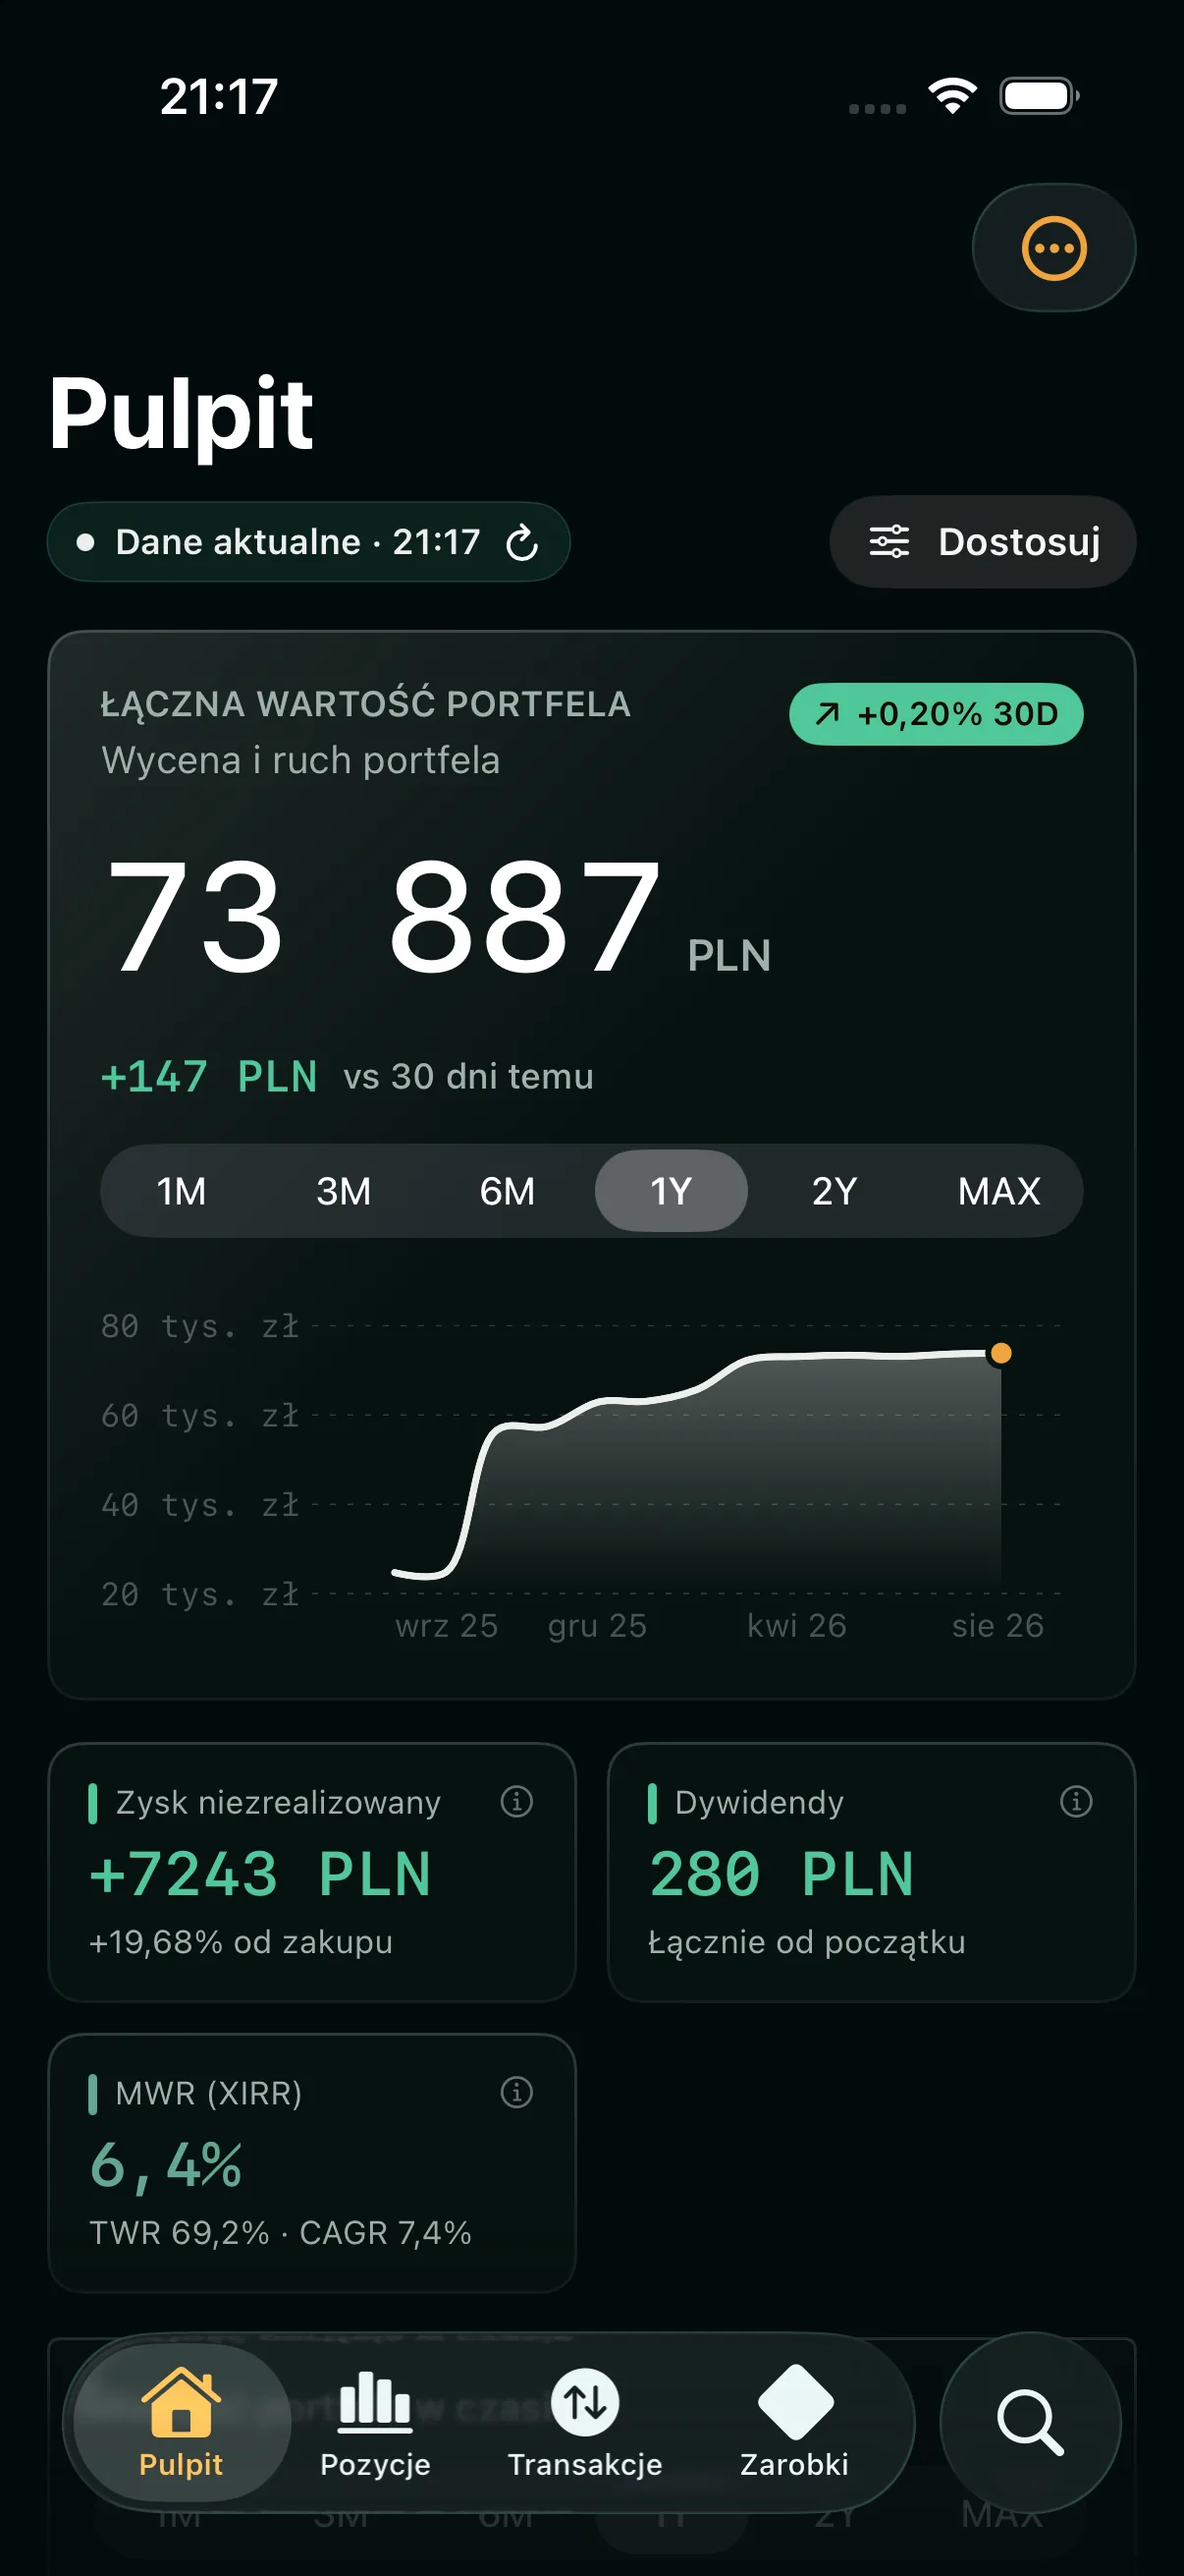
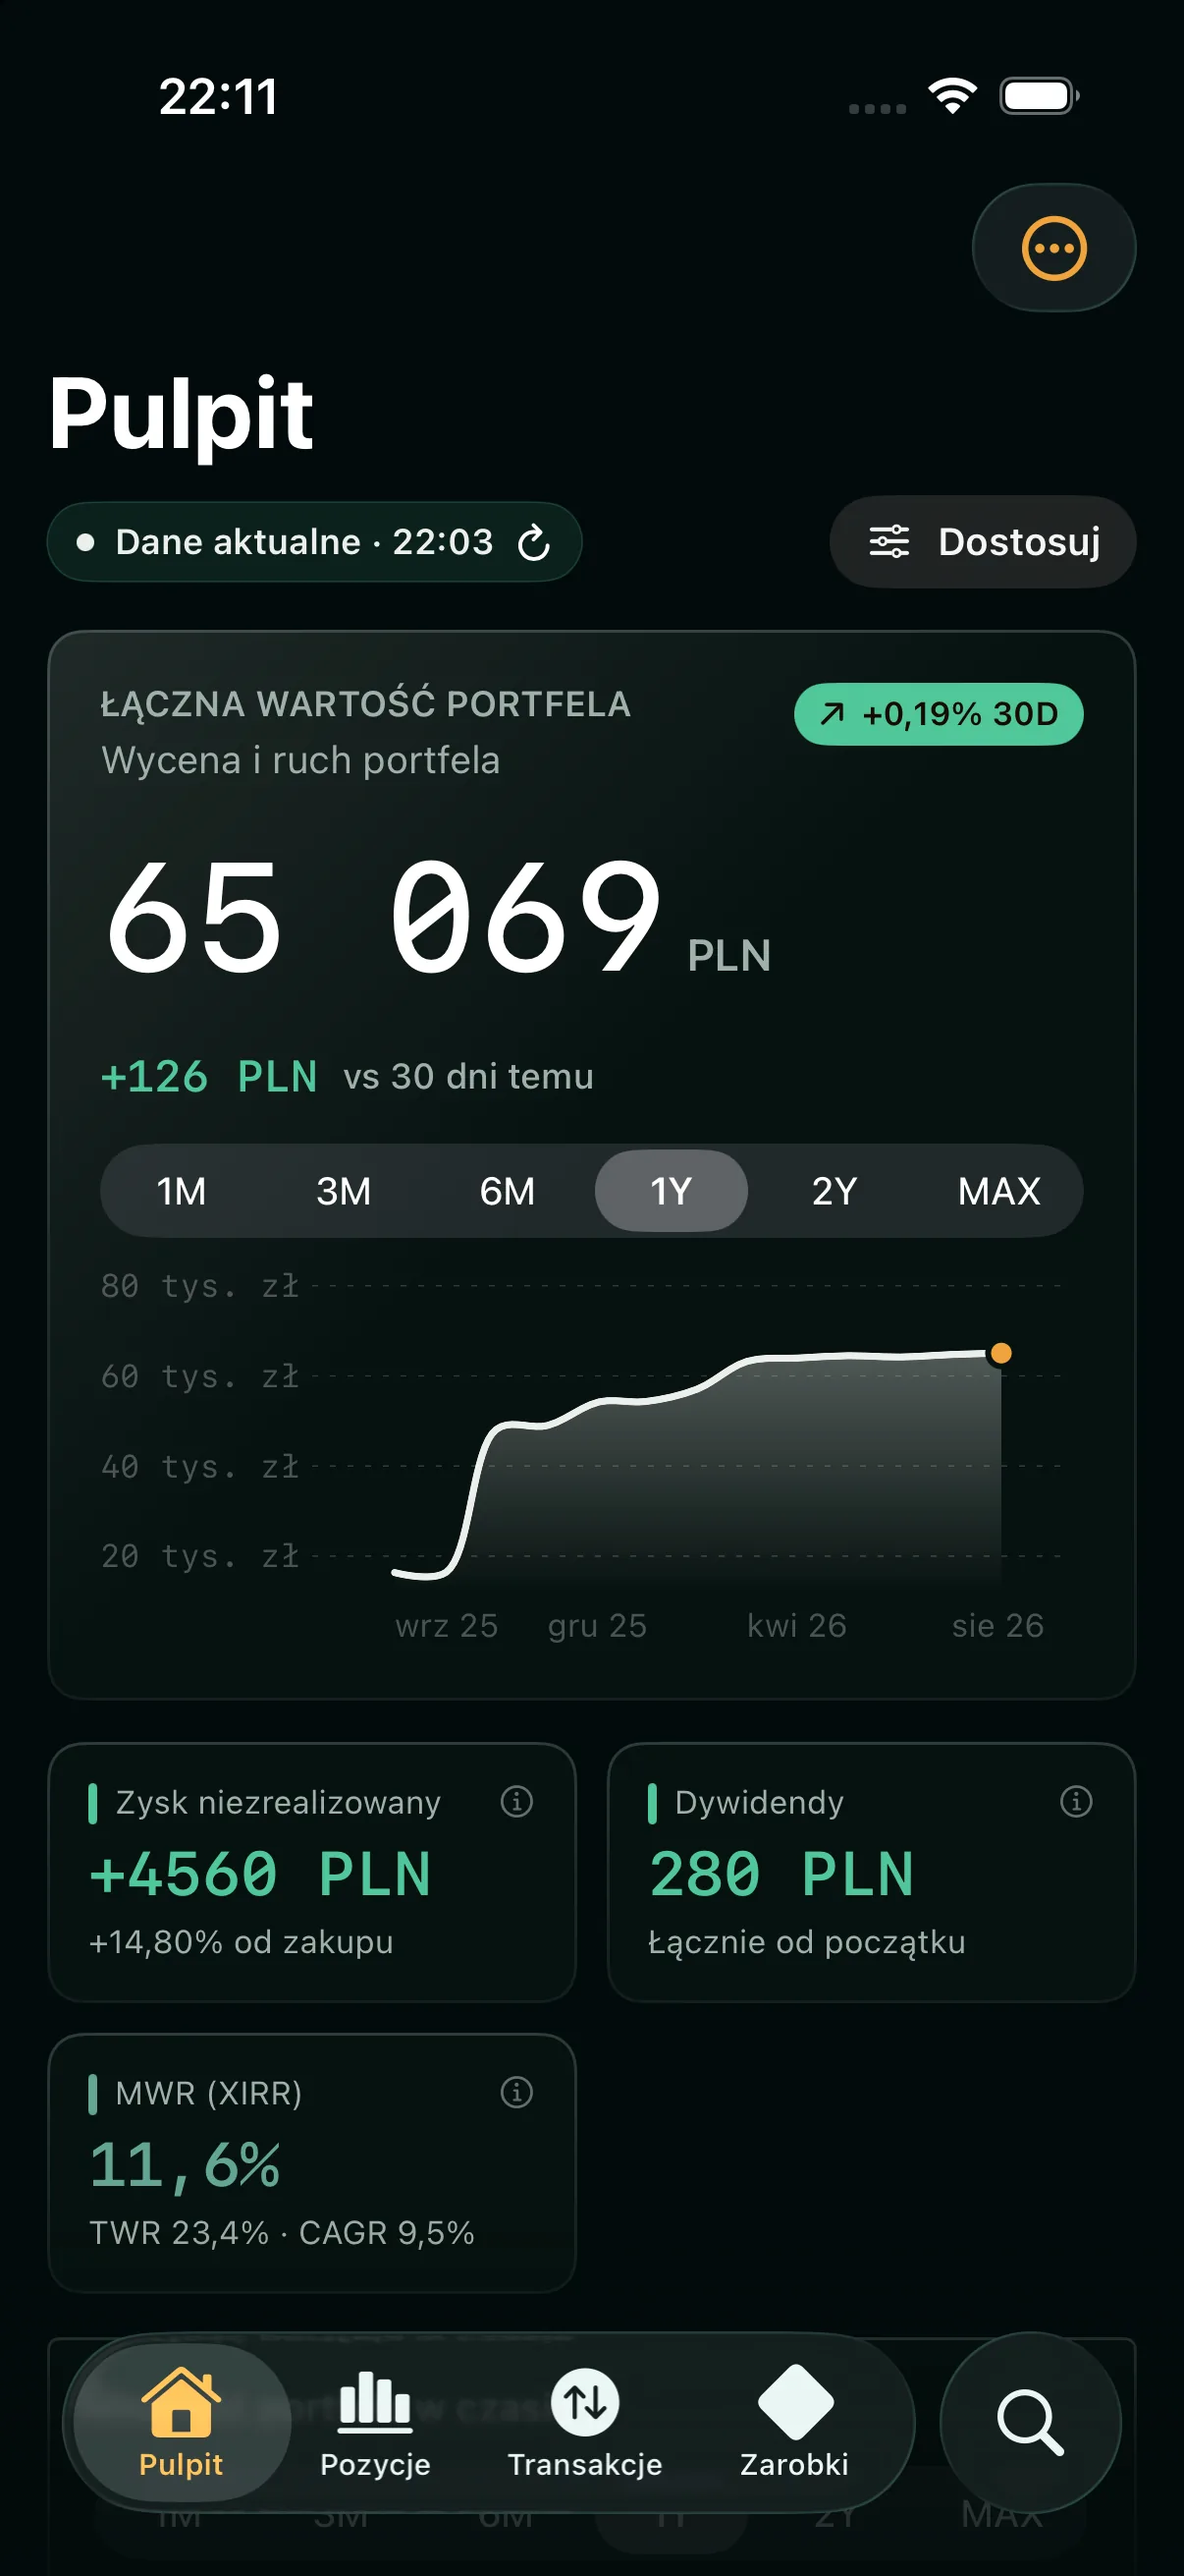
Landing: usuń cienie z rozmyciem, zrzuty iOS na poprawionych danych, test pilnuje CSS
- landing.css: bez cieni pod ramkami aplikacji i wewnętrznego cienia pól
  (zostają włosowe krawędzie inset, pierścień fokusu); text-shadow na
  karcie inwestora zostaje jako pomoc w czytelności nad obrazem
- no-component-shadows: skanuje też CSS, w tym deklaracje wielolinijkowe
- zrzuty iOS (5) i ios.webp z JSON-LD: nowe dane przykładowe aplikacji

diff --git a/app/_landing/landing.css b/app/_landing/landing.css
@@ -156,9 +156,7 @@
   border: 1px solid var(--hair);
   box-shadow:
     inset 0 1px 0 rgba(255, 255, 255, 0.15),
-    inset 0 -1px 0 rgba(0, 0, 0, 0.34),
-    0 22px 54px rgba(0, 0, 0, 0.5),
-    0 2px 8px rgba(0, 0, 0, 0.34);
+    inset 0 -1px 0 rgba(0, 0, 0, 0.34);
 }
 
 /* ── Przyciski — bursztyn zatopiony w szkle, świeci od spodu ─────────────── */
@@ -615,7 +613,7 @@
   backdrop-filter: blur(26px) saturate(126%);
   -webkit-backdrop-filter: blur(26px) saturate(126%);
   border: 1px solid var(--hair);
-  box-shadow: inset 0 1px 0 rgba(255, 255, 255, 0.15), 0 22px 54px rgba(0, 0, 0, 0.5);
+  box-shadow: inset 0 1px 0 rgba(255, 255, 255, 0.15);
 }
 .zlanding .product-kicker { font-family: var(--text); font-weight: 500; font-size: 12px; letter-spacing: 0.1em; text-transform: uppercase; color: var(--ink-3); }
 .zlanding .static-allocation { display: flex; align-items: center; gap: 20px; margin-top: 14px; flex-wrap: wrap; }
@@ -668,7 +666,7 @@
   backdrop-filter: blur(26px) saturate(126%);
   -webkit-backdrop-filter: blur(26px) saturate(126%);
   border: 1px solid var(--hair);
-  box-shadow: inset 0 1px 0 rgba(255, 255, 255, 0.15), 0 22px 54px rgba(0, 0, 0, 0.5);
+  box-shadow: inset 0 1px 0 rgba(255, 255, 255, 0.15);
 }
 .zlanding .field label { display: block; font-family: var(--text); font-weight: 500; font-size: 12px; letter-spacing: 0.1em; text-transform: uppercase; color: var(--ink-3); }
 .zlanding .field input {
@@ -680,13 +678,13 @@
   border-radius: 3px;
   background: rgba(2, 10, 11, 0.5);
   border: 1px solid var(--hair);
-  box-shadow: inset 0 1px 3px rgba(0, 0, 0, 0.5);
+  box-shadow: inset 0 1px 0 rgba(0, 0, 0, 0.5);
   color: var(--ink);
   font-family: var(--text);
   font-size: 14px;
 }
 .zlanding .field input::placeholder { color: var(--ink-3); }
-.zlanding .field input:focus-visible { border-color: rgba(240, 164, 60, 0.5); box-shadow: inset 0 1px 3px rgba(0, 0, 0, 0.5), 0 0 0 3px rgba(240, 164, 60, 0.12); outline: none; }
+.zlanding .field input:focus-visible { border-color: rgba(240, 164, 60, 0.5); box-shadow: inset 0 1px 0 rgba(0, 0, 0, 0.5), 0 0 0 3px rgba(240, 164, 60, 0.12); outline: none; }
 .zlanding .hp-field { position: absolute; left: -9999px; width: 1px; height: 1px; overflow: hidden; }
 .zlanding .beta-consent { display: flex; align-items: center; gap: 11px; margin-top: 16px; font-size: 14px; color: var(--ink-2); cursor: pointer; }
 .zlanding .beta-waitlist-form .btn { width: 100%; margin-top: 20px; }
@@ -793,7 +791,7 @@
   border-radius: 4px;
   background: linear-gradient(158deg, rgba(196, 232, 222, 0.075), rgba(196, 232, 222, 0.028));
   border: 1px solid var(--hair);
-  box-shadow: inset 0 1px 0 rgba(255, 255, 255, 0.15), 0 22px 54px rgba(0, 0, 0, 0.55);
+  box-shadow: inset 0 1px 0 rgba(255, 255, 255, 0.15);
 }
 .zlanding .platform-stage-main figure[hidden] { display: none; }
 .zlanding .platform-stage-main figure img { display: block; width: 100%; height: auto; border-radius: 2px; }
@@ -1107,7 +1105,6 @@
   border-radius: 6px;
   border: 1px solid var(--hair);
   background: var(--vault-3);
-  box-shadow: 0 24px 48px rgba(0, 0, 0, 0.35);
   overflow: hidden;
 }
 .zlanding .steps-shot-bar {
@@ -1356,7 +1353,6 @@
     gap: 0;
     padding: 8px 28px 20px;
     background: #020A0B;
-    box-shadow: 0 24px 48px rgba(0, 0, 0, 0.6);
     border-bottom: 1px solid var(--hair);
   }
   .zlanding .nav-links.is-open { display: flex; }

diff --git a/tests/unit/no-component-shadows.test.ts b/tests/unit/no-component-shadows.test.ts
@@ -8,29 +8,49 @@ import { describe, expect, it } from "vitest";
 //
 // Dozwolone są wyłącznie formy bez rozmycia: włosowy błysk `inset 0 1px 0`,
 // pierścień zaznaczenia `inset 0 0 0`, znacznik krawędzi `inset 2px 0 0`
-// i zaciemnienie overlayu `0 0 0 9999px`.
-const ALLOWED = [/inset 0 (0\.5|1)px 0(?!\s*\d)/, /inset 0 0 0/, /inset 2px 0 0/, /0 0 0 9999px/];
+// i pierścień o zerowym rozmyciu `0 0 0 Npx` (fokus, pulsowanie, zaciemnienie overlayu).
+const ALLOWED = [/inset 0 (0\.5|1)px 0(?!\s*\d)/, /inset 0 0 0/, /inset 2px 0 0/, /0 0 0 \d+(\.\d+)?px/];
 const DROP = /-?\d+(\.\d+)?(px)?\s+-?\d+(\.\d+)?(px)?\s+\d+(\.\d+)?px/; // x y blur (zero bez jednostki też)
 
 function walk(dir: string, out: string[] = []) {
   for (const name of readdirSync(dir)) {
     const p = join(dir, name);
     if (statSync(p).isDirectory()) walk(p, out);
-    else if (/\.(ts|tsx)$/.test(name)) out.push(p);
+    else if (/\.(ts|tsx|css)$/.test(name)) out.push(p);
   }
   return out;
+}
+
+function withoutAllowed(text: string) {
+  let rest = text;
+  for (const ok of ALLOWED) rest = rest.replace(new RegExp(ok, "g"), "");
+  return rest;
 }
 
 describe("komponenty nie malują cieni", () => {
   it("żaden boxShadow w src/ nie ma rozmycia (offset + blur)", () => {
     const offenders: string[] = [];
-    for (const file of walk("src")) {
+    for (const file of walk("src").filter((f) => !f.endsWith(".css"))) {
       readFileSync(file, "utf8").split("\n").forEach((line, i) => {
         if (!/boxShadow|box-shadow/.test(line)) return;
-        let rest = line;
-        for (const ok of ALLOWED) rest = rest.replace(new RegExp(ok, "g"), "");
-        if (DROP.test(rest)) offenders.push(`${file}:${i + 1}  ${line.trim().slice(0, 90)}`);
+        if (DROP.test(withoutAllowed(line))) offenders.push(`${file}:${i + 1}  ${line.trim().slice(0, 90)}`);
       });
+    }
+    expect(offenders).toEqual([]);
+  });
+
+  // CSS bywa wielolinijkowy (`box-shadow:` i wartości w kolejnych liniach), więc
+  // sprawdzamy całą deklarację, nie pojedynczą linię.
+  it("żaden box-shadow w CSS (landing, globals, tokeny) nie ma rozmycia", () => {
+    const offenders: string[] = [];
+    for (const file of [...walk("app"), ...walk("src")].filter((f) => f.endsWith(".css"))) {
+      const text = readFileSync(file, "utf8");
+      for (const m of text.matchAll(/(?:^|[;{\s])box-shadow\s*:([^;}]*)[;}]/g)) {
+        if (DROP.test(withoutAllowed(m[1]))) {
+          const line = text.slice(0, m.index).split("\n").length;
+          offenders.push(`${file}:${line}  ${m[0].trim().replace(/\s+/g, " ").slice(0, 90)}`);
+        }
+      }
     }
     expect(offenders).toEqual([]);
   });
